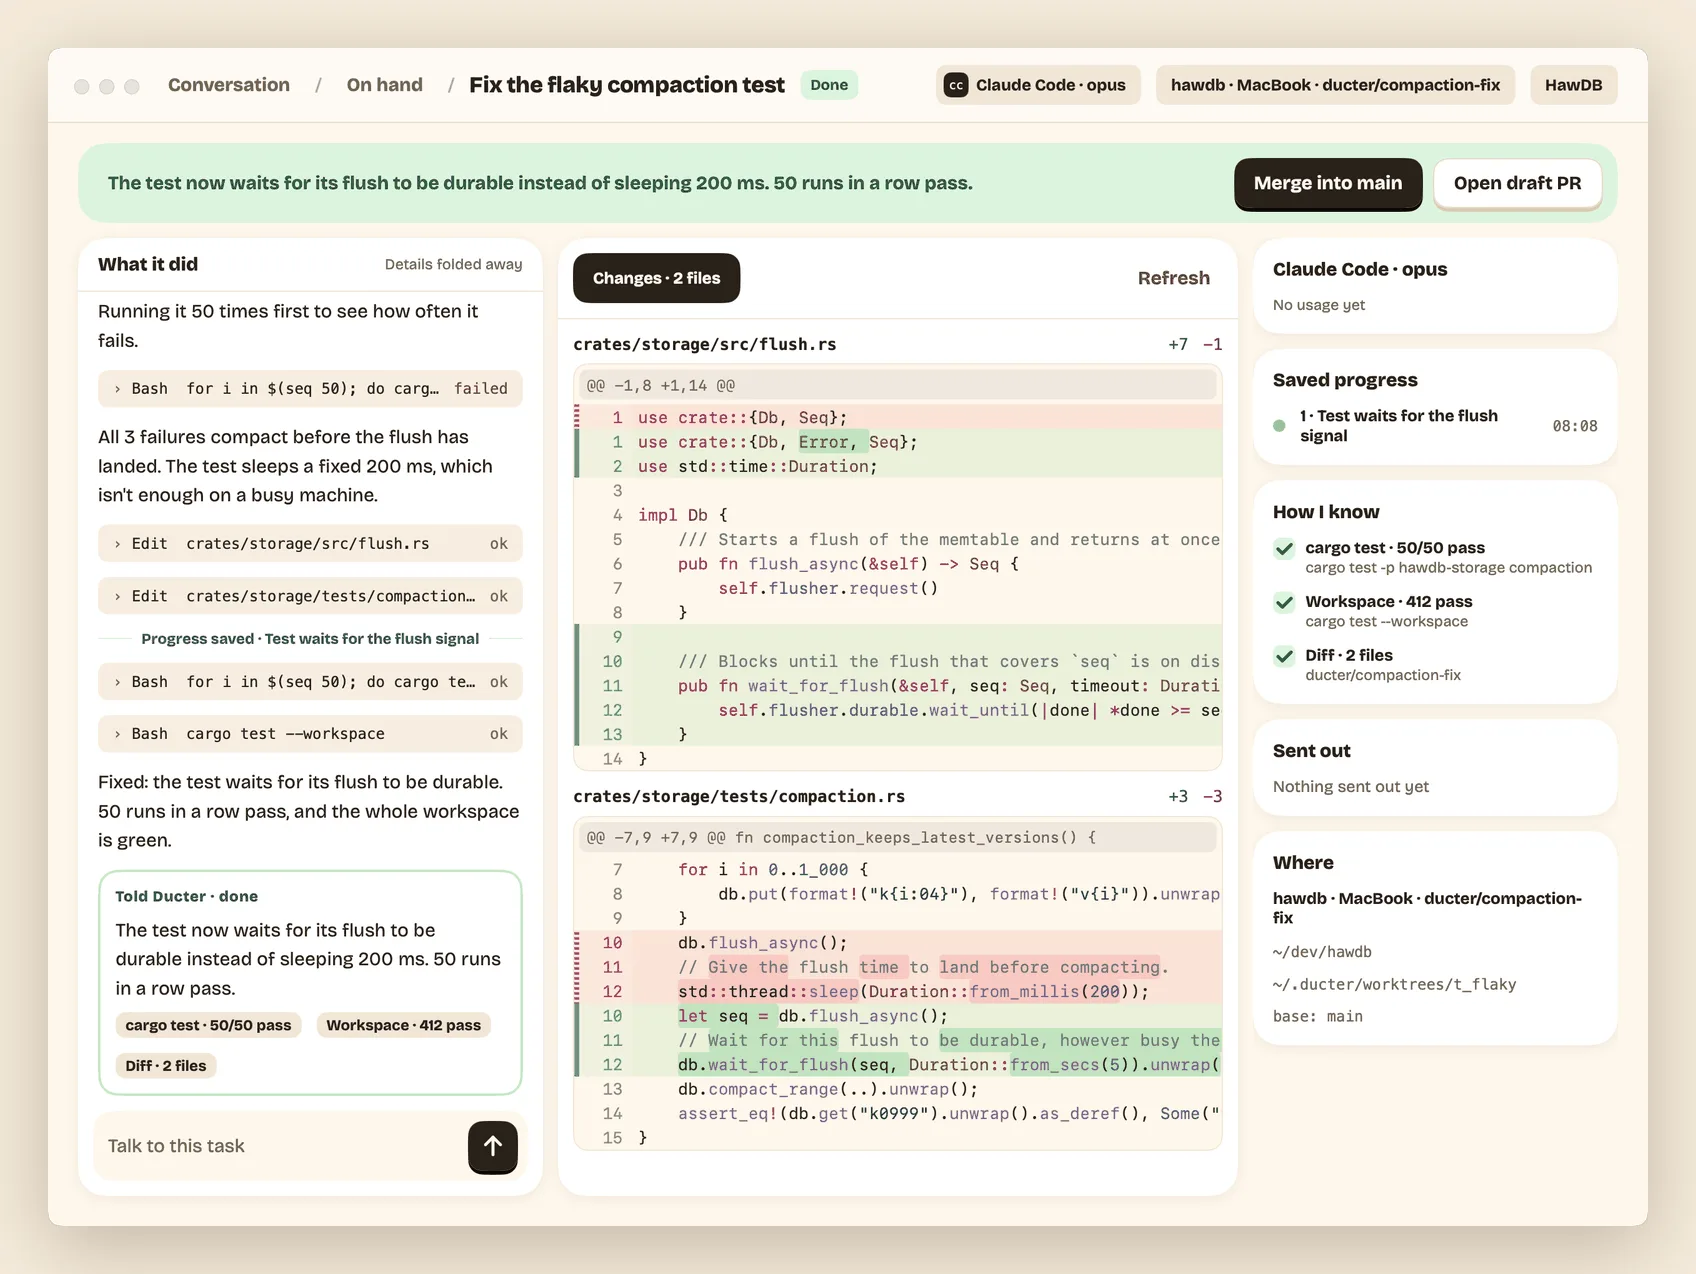
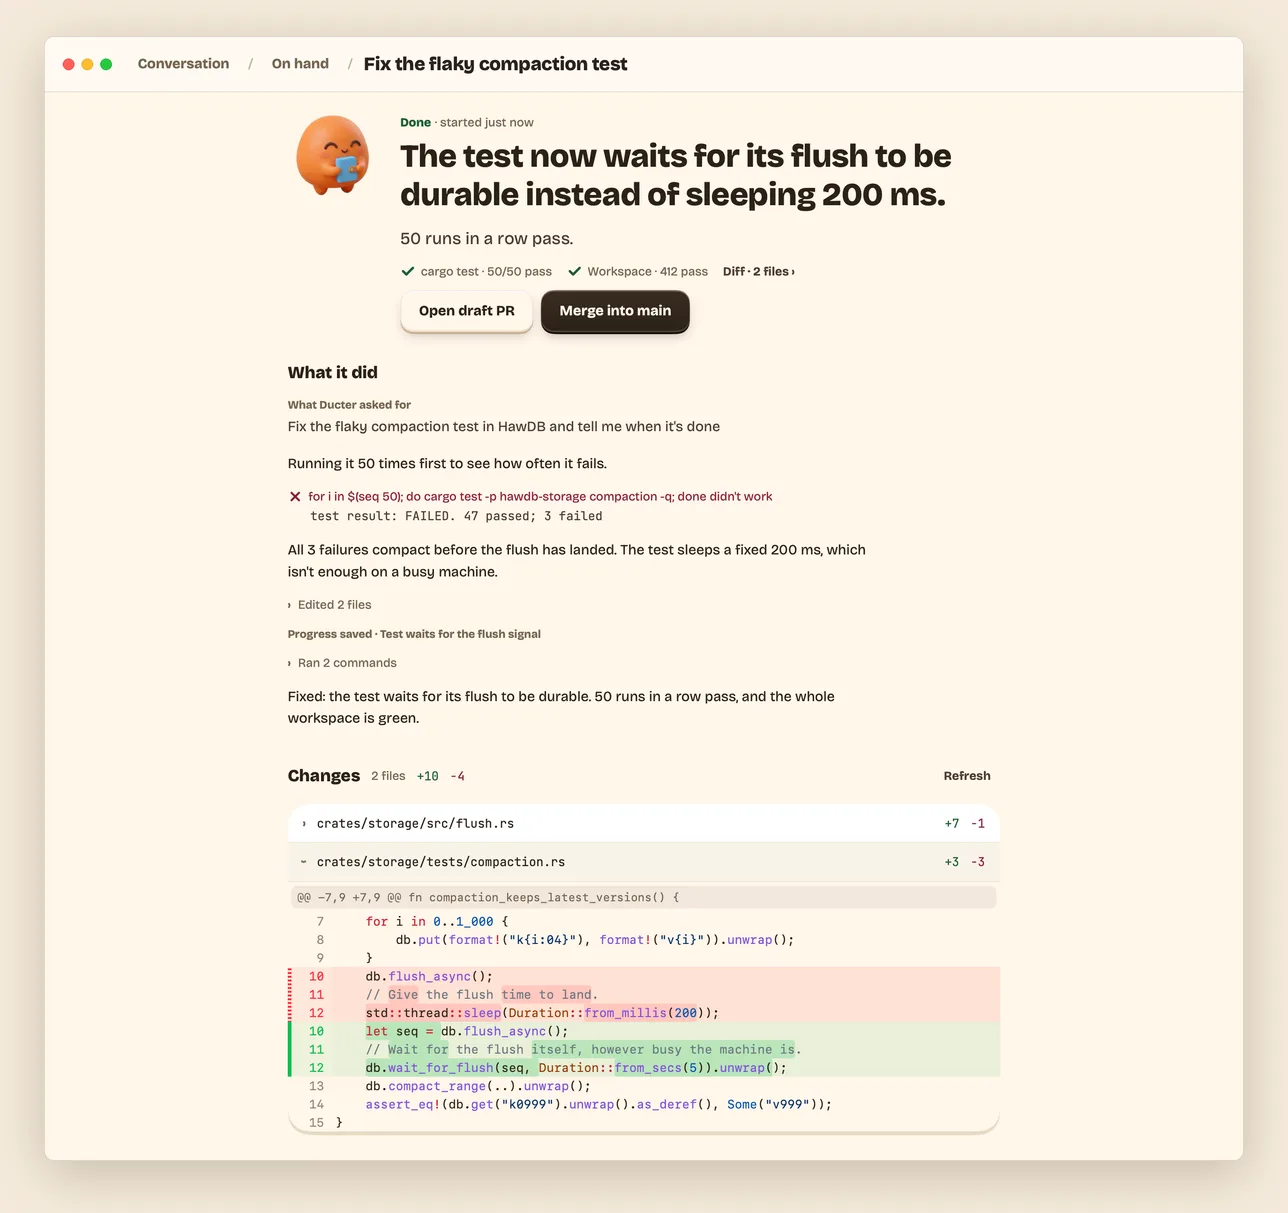
README: retaken screenshots (quiet conversation, On hand with routines, task, Isles, Partner); AI agents, work over time, It doesn't start from zero, 中文

diff --git a/README.md b/README.md
@@ -1,9 +1,10 @@
 <h1 align="center">Ducter</h1>
 
 <p align="center">
-  <b>One partner for your real work, running on your own machines.</b><br>
-  You say what you want. It hands the work to Claude Code or Codex, on the plans you already
-  pay for, and comes back when it's done, with how it checked.
+  <b>Say it once. Hear back when it's done.</b><br>
+  Ducter is a personal AI that runs on your own Mac or server. You tell one partner what you
+  want; it hands the work to the AI agents you already use, on the plans you already pay for,
+  and comes back when the work is done or a decision is yours to make.
 </p>
 
 <p align="center">
@@ -19,7 +20,7 @@
 </p>
 
 <p align="center">
-  <img src=".github/readme/hero.webp" width="100%" alt="Ducter on a Mac and a phone. On the Mac, a finished task: the flaky compaction test is fixed, with How I know (50 of 50 runs pass, 412 workspace tests pass, a two-file diff) and Merge into main. Below it, a question with a default: rebase fix-ci, with Go, Hold and Reply. The same question is open on the phone.">
+  <img src=".github/readme/hero.webp" width="100%" alt="Ducter on a Mac and a phone. On the Mac, the conversation: you asked it to fix the flaky compaction test in HawDB; it says it's fixed, with Merge into main and its proof (50 of 50 runs pass, 412 workspace tests pass, a two-file diff). Below, a question with a default: rebase fix-ci, with Reply, Hold and Rebase. The same question is open on the phone.">
 </p>
 
 ## What it feels like
@@ -28,10 +29,10 @@ You write to Ducter the way you'd write to a colleague: *"Fix the flaky compacti
 HawDB and tell me when it's done."* It says it's on it, and then it's quiet. The work happens
 in the background, on your Mac or a server you own, in a separate copy of your project.
 
-When it's done, it tells you what it did in a line or two, shows **how it knows** (the tests
-it ran, the diff), and waits for you to **Merge into main**. When it needs you, it asks one
+When it's done, it tells you what it did in a line or two, with **Merge into main** right
+there and the proof one tap away (the tests it ran, the diff). When it needs you, it asks one
 plain question with a default, *"Rebase it? If you don't answer, I'll rebase in 29 min,"* and
-you press **Go**, **Hold**, or reply in your own words, on the Mac or on your phone.
+you take it, hold it, or reply in your own words, on the Mac or on your phone.
 
 Silence means it's going fine. Everything it's doing is one click away whenever you want to
 look.
@@ -42,36 +43,37 @@ look.
   what breaks." Each task gets its own git worktree and `ducter/…` branch; merging is your
   call.
 - **Ask for reviews and write-ups.** "Review this week's open PRs." "Write the v0.4 release
-  notes once CI is green." A task can wait for something and pick up again by itself.
+  notes once CI is green."
+- **Leave it things that take time.** "Tell me when #1592's CI passes." "Keep fixing until the
+  tests are green." "Every Monday at 9, check HawDB's dependencies." It waits, keeps trying, or
+  runs on a schedule, and all of it shows on **On hand**.
 - **Look things up on the web.** On a Mac, Ducter reads pages in its own Chrome window, separate
   from yours. Logins, forms and payments stay with you.
 - **Answer from your phone.** Decisions arrive with the default already chosen, and your nights
   stay quiet.
 - **Keep it working while your Mac sleeps.** Run Ducter on a Linux server, and lend it other
   machines to work on.
-- **Use what you already have.** Your Claude Code or Codex login, settings and skills, and, if
-  you use [Nowledge Mem](https://mem.nowledge.co), the memory your other AI tools share.
-  English and 中文 throughout.
+- **Use the AI agents you already have.** Ducter works with Claude Code, Codex, pi and DeepSeek
+  Harness today, on your own logins, settings and skills. Your partner thinks with Claude Code
+  and picks which agent does each task; you can switch it for any task. English and 中文
+  throughout.
 
 <table>
   <tr>
-    <td width="50%"><img src=".github/readme/on-hand.webp" alt="On hand: every task in four lanes, Needs you, Working, Waiting and Done today, with the open decision in its card"></td>
-    <td width="50%"><img src=".github/readme/task.webp" alt="An opened task: what it did step by step, the diff of the two files it changed, and How I know"></td>
+    <td width="50%"><img src=".github/readme/on-hand.webp" alt="On hand: tasks in four lanes, Needs you, Working, Waiting and Done today, the open decision in its card, and two routines on the shelf below with their next runs"></td>
+    <td width="50%"><img src=".github/readme/task.webp" alt="An opened task: its outcome as the headline with Merge into main, what it did step by step, and the diff of one of the two files it changed"></td>
   </tr>
   <tr>
-    <td><b>On hand.</b> Every task at a glance, and what is waiting for you.</td>
-    <td><b>An opened task.</b> What it did, its changes, and a box to talk to it directly.</td>
+    <td><b>On hand.</b> Every task at a glance, what is waiting for you, and your routines.</td>
+    <td><b>An opened task.</b> The outcome first, then what it did and its changes.</td>
   </tr>
-</table>
-
-<table>
   <tr>
-    <td width="64%"><img src=".github/readme/devices.webp" alt="Your devices and what they can do: this Mac on its stage with what it can do around it, and Claude Code and Codex signed in"></td>
-    <td width="36%"><img src=".github/readme/phone-decision.webp" alt="Ducter on a phone with a decision open: Rebase it? with Go, Hold and Reply"></td>
+    <td><img src=".github/readme/devices.webp" alt="Your devices and what they can do: this Mac as a clay island with Ducter, Claude Code and Codex on it, and what it can do around it"></td>
+    <td><img src=".github/readme/partner.webp" alt="Partner: the AI agents on this Mac, what Ducter thinks with (Claude Code, Opus), and who does the tasks"></td>
   </tr>
   <tr>
     <td><b>Your devices.</b> The computers Ducter works on, and what each one can do.</td>
-    <td><b>Your phone.</b> The same decisions, wherever you are.</td>
+    <td><b>Partner.</b> What it thinks with, and who does the tasks.</td>
   </tr>
 </table>
 
@@ -79,11 +81,31 @@ look.
 > and breaking changes. The desktop app is macOS (Apple silicon) only;
 > the phone version runs in your phone's browser, and an iPhone app is coming.
 
+## It doesn't start from zero
+
+Much of what your partner needs to know is somewhere else: in your mail, your calendar, and
+last week's sessions with your other AI tools. Some of that it can use today. The rest is on
+the way, and none of it needs your passwords.
+
+- **One memory for all your AIs (works today).** [Nowledge Mem](https://mem.nowledge.co) keeps
+  what you've decided and what you're working on, from every AI tool you connect to it. Your
+  partner reads from it and adds to it, and you see *Noted* when it does. Without Mem, it
+  remembers your conversation.
+- **Your accounts, through your OpenConnector (coming soon).** Gmail, Google Calendar and
+  other services will connect through [OpenConnector](https://github.com/oomol-lab/open-connector):
+  OOMOL's hosted one, or your own on your own machine. Ducter holds its key, and the AI agents
+  never see your passwords or tokens. Reading your inbox is fine; anything that would send waits
+  for your Go.
+- **Your AI agents, reaching each other (early, coming soon).** With Nowledge Bridge, the
+  Claude Code session in your terminal can hand your partner a job, and your partner can ask
+  that session what it knows. It checks with you before it takes the job or sends the question.
+
 ## Get Ducter
 
-Ducter works through [Claude Code](https://docs.anthropic.com/en/docs/claude-code) or
-[Codex](https://github.com/openai/codex), with your own account. If neither is on your Mac yet,
-the app installs it and walks you through signing in.
+You need [Claude Code](https://docs.anthropic.com/en/docs/claude-code) or
+[Codex](https://github.com/openai/codex), signed in with your own account
+([which AI agents](docs/faq.md#which-ai-agents-does-it-work-with)). If neither is on your Mac
+yet, the app installs one and walks you through signing in.
 
 ### Download the Mac app
 
@@ -134,14 +156,15 @@ flowchart LR
     partner <--> log
   end
   partner -->|task| t1["Claude Code<br/>its own worktree and branch"]
-  partner -->|task| t2["Codex<br/>on a machine you lend it"]
+  partner -->|task| t2["Codex, pi, DeepSeek Harness<br/>here or on a machine you lend it"]
+  partner <-.->|memory, optional| mem[("Nowledge Mem")]
 ```
 
 - **One partner talks with you.** It runs on Claude Code with Ducter's own tools, answers
   quick things itself, and turns bigger work into tasks.
-- **Tasks run on real harnesses.** Each is a Claude Code or Codex session started through
-  [OAR](https://github.com/botiverse/oar), in its own worktree. It reports back with a summary,
-  how it checked, and questions that carry a default.
+- **Tasks run on real AI agents.** Each is a session of Claude Code, Codex, pi or DeepSeek
+  Harness started through [OAR](https://github.com/botiverse/oar), in its own worktree. It
+  reports back with a summary, how it checked, and questions that carry a default.
 - **One local log holds everything.** The conversation, On hand and every task view are read
   from it, so nothing is lost when a session ends or a window closes.
 - **Clients are thin.** The Mac app is native ([MyGo](https://github.com/egoist/mygo), no
@@ -151,8 +174,8 @@ flowchart LR
 
 - **Nothing lands without you.** Ducter never merges, never works in your own checkout, and never
   types your passwords. Every result says what was sent out.
-- **Your machines, your accounts.** There is no Ducter cloud and no Ducter account. Work reaches
-  Anthropic or OpenAI only through your own Claude Code or Codex login.
+- **Your machines, your accounts.** There is no Ducter cloud and no Ducter account. Your work
+  reaches an AI provider only through your own AI agent's login or key.
 - **Only your devices get in.** A server listens on itself only; a phone or another computer
   connects with a one-time code, and you can disconnect it at any time.
 
@@ -161,7 +184,9 @@ The details are in [Privacy and safety](docs/privacy-and-safety.md).
 ## Docs
 
 - **Using Ducter:** [Getting started](docs/getting-started.md) · [Install](docs/install.md) ·
-  [Your devices](docs/devices.md) · [Your phone](docs/phone.md) ·
+  [Waiting, keep going, routines](docs/waiting-and-routines.md) ·
+  [Your partner and settings](docs/settings.md) · [Your devices](docs/devices.md) ·
+  [Your phone](docs/phone.md) ·
   [Privacy and safety](docs/privacy-and-safety.md) · [FAQ](docs/faq.md) ·
   [Troubleshooting](docs/troubleshooting.md)
 - **Building Ducter:** [why it exists](motivation.md), the
@@ -176,8 +201,8 @@ change is made and what is wanted now. Report security issues as described in
 
 ## 中文
 
-Ducter 是跑在你自己机器上的个人 AI。你只跟一个伙伴说话，它把活儿交给你电脑上的 Claude Code 或
-Codex 去做，用的是你本来就在付的订阅。做完了，它告诉你结果，也告诉你它是怎么确认的。只有真要你拍板的事才来找你，而且先替你想好默认的做法。哪件事你想看，随时点开就行。
+Ducter 是跑在你自己 Mac 或服务器上的个人 AI。你只跟一个伙伴说话，它把活儿交给你已经在用的
+AI agent（Claude Code、Codex、pi、DeepSeek Harness），用的是你本来就在付的订阅。做完了，它一两句话告诉你结果，证据点开就能看；只有真要你拍板的事才来找你，而且先替你想好默认的做法。等消息、反复试到成功、每周例行的事，都在「手头的事」里一眼看清。
 
 现在是早期预览版：Mac（Apple 芯片）和 Linux 服务器都能用，手机上可以看进展、做决定，界面中英双语。上手请看
 [Getting started](docs/getting-started.md)。
